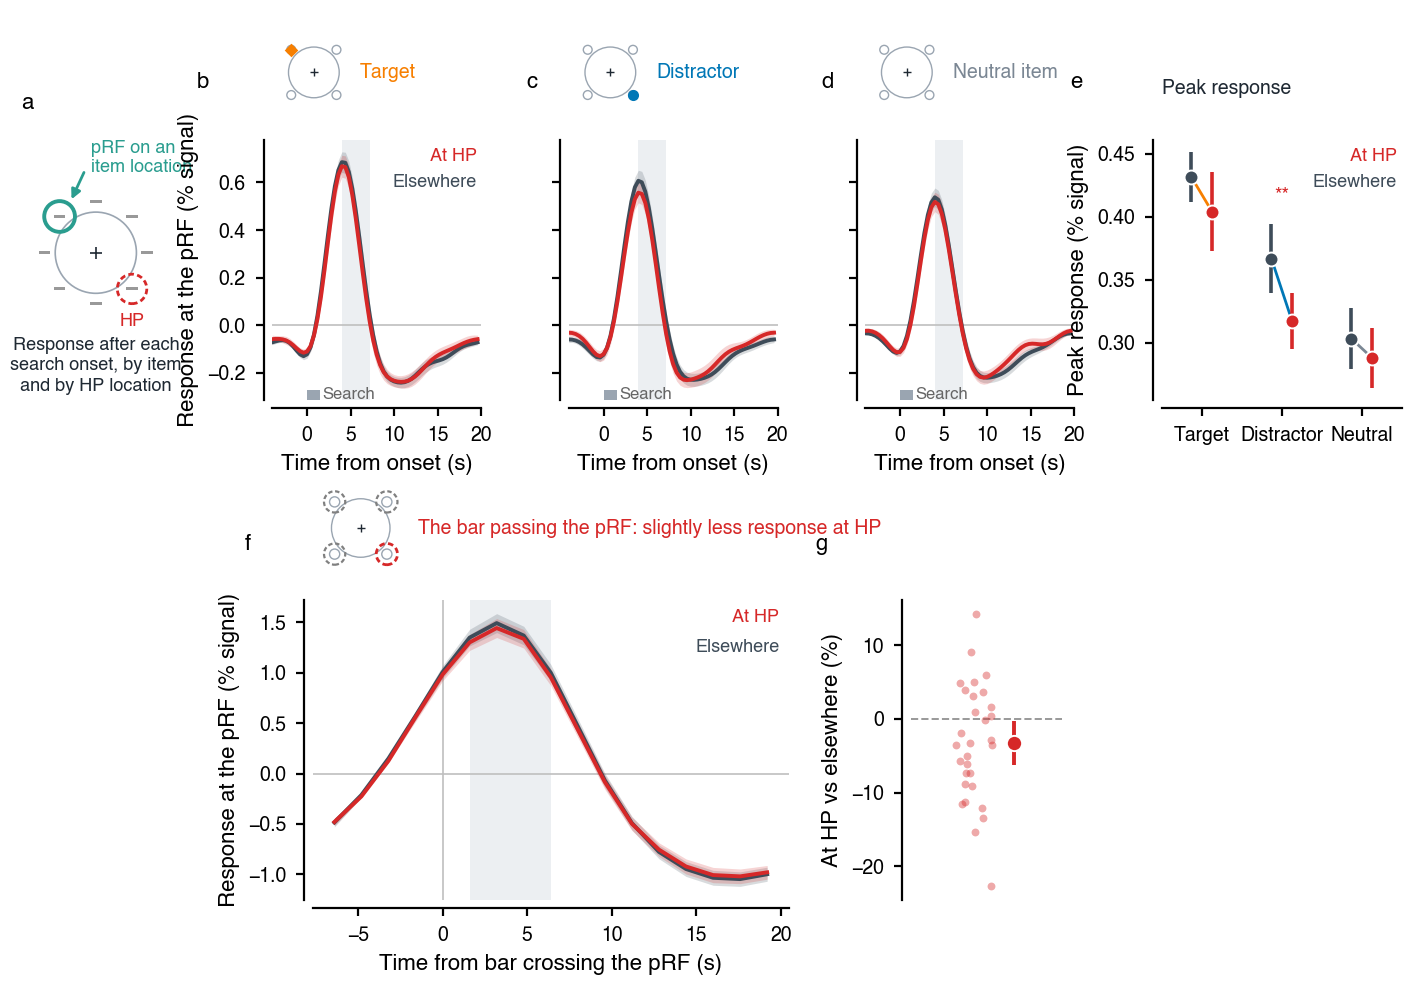
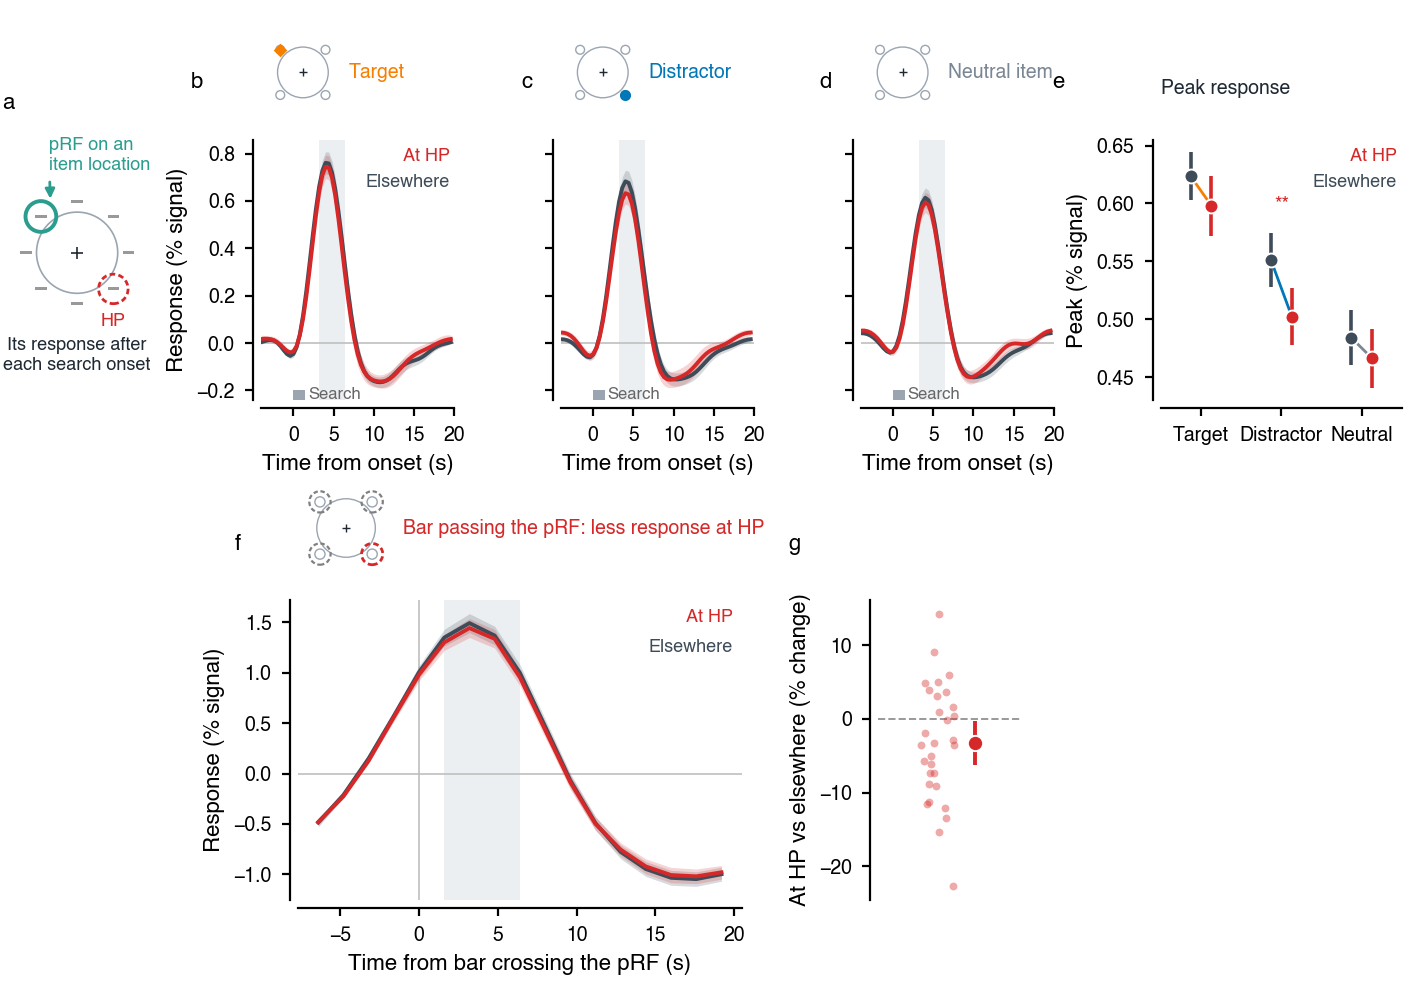
Deconvolved event figure: layout, common baseline, peak window 3.2-6.4 s

diff --git a/retsupp/visualize/paper/fig_event_responses_2x3.py b/retsupp/visualize/paper/fig_event_responses_2x3.py
@@ -64,6 +64,8 @@ def load_deconv(folder):
     d['w'] = d.response * d.n_voxels
     g = d.groupby(['subject', 'cls', 't'])
     p = (g.w.sum() / g.n_voxels.sum()).rename('data').reset_index()
+    base = p[p.t < 0].groupby('subject').data.mean()
+    p['data'] -= p.subject.map(base)
     p[['item', 'loc']] = p.cls.str.rsplit('_', n=1, expand=True)
     return p
 
@@ -77,11 +79,11 @@ def schematic(ax):
     ax.add_patch(Circle(ring[1], 1.2, fill=False, ec=PRF_TEAL, lw=1.4))
     ax.add_patch(Circle(ring[3], 1.15, fill=False, ec=HP, lw=1., ls=(0, (2, 1.2))))
     ax.plot(0, 0, '+', color=FG, ms=4, mew=.6)
-    ax.annotate('pRF on an\nitem location', xy=ring[1] + [.75, .95], xytext=(-.4, 7.4), fontsize=6.5, color=PRF_TEAL, ha='left',
+    ax.annotate('pRF on an\nitem location', xy=ring[1] + [.75, .95], xytext=(-2.2, 7.6), fontsize=6.5, color=PRF_TEAL, ha='left',
                 va='center', arrowprops=dict(arrowstyle='-|>', color=PRF_TEAL, lw=1., mutation_scale=7, shrinkA=1, shrinkB=2,
                                              relpos=(0, .5)))
     ax.text(ring[3, 0], ring[3, 1] - 1.9, 'HP', color=HP, fontsize=6.5, ha='center', va='top')
-    ax.text(0, -6.6, 'Response after each\nsearch onset, by item\nand by HP location',
+    ax.text(0, -6.6, 'Its response after\neach search onset',
             ha='center', va='top', fontsize=6.5, color=FG, linespacing=1.25)
     ax.set_xlim(-5.8, 5.8)
     ax.set_ylim(-11.5, 8.8)
@@ -132,7 +134,7 @@ def peaks(ax, d):
         st = '***' if p < .001 else '**' if p < .01 else '*' if p < .05 else ''
         ax.text(i, max(m) + max(e) + .015, st, ha='center', va='bottom', fontsize=7, color=HP)
     ax.set_xticks(range(len(ITEMS)))
-    ax.set_xticklabels(['Target', 'Distractor', 'Neutral'])
+    ax.set_xticklabels(['Target', 'Distractor', 'Neutral'], fontsize=6.5)
     for t, (_, _, col, _) in zip(ax.get_xticklabels(), ITEMS):
         t.set_color(col)
     ax.set_xlim(-.5, len(ITEMS) - .5)
@@ -170,7 +172,7 @@ def bar_panels(ax, ax2, p):
     ax.text(.98, .97, 'At HP', transform=ax.transAxes, color=HP, fontsize=6.5, ha='right', va='top')
     ax.text(.98, .87, 'Elsewhere', transform=ax.transAxes, color=LP_GREY, fontsize=6.5, ha='right', va='top')
     ax.set_xlabel('Time from bar crossing the pRF (s)')
-    ax.set_ylabel('Response at the pRF (% signal)')
+    ax.set_ylabel('Response (% signal)')
     offset_spines(ax)
     pk = p[p.t.between(*BAR_PEAK)].groupby(['subject', 'cls']).data.mean().unstack()
     rel = 100 * (pk.hp - pk.lp) / pk.lp
@@ -181,7 +183,7 @@ def bar_panels(ax, ax2, p):
     ax2.axhline(0, color='.6', lw=.7, ls='--', zorder=0)
     ax2.set_xlim(-.5, .7)
     ax2.set_xticks([])
-    ax2.set_ylabel('At HP vs elsewhere (%)')
+    ax2.set_ylabel('At HP vs elsewhere (% change)')
     offset_spines(ax2)
     ax2.spines['bottom'].set_visible(False)
     w = stats.wilcoxon(rel)
@@ -192,9 +194,11 @@ def main(folder, name='fig_event_responses_2x3', bar_folder='notes/data/bar_pass
     d = load_deconv(deconv) if deconv else load(folder)
     if deconv:
         name = f'{name}_deconv'
+        global PEAK
+        PEAK = (3.2, 6.4)
     n = d.subject.nunique()
     fig = plt.figure(figsize=(DOUBLE, 5.0))
-    gs = fig.add_gridspec(1, 5, width_ratios=[.85, 1, 1, 1, 1.15], left=.005, right=.99, top=.86, bottom=.6, wspace=.42)
+    gs = fig.add_gridspec(1, 5, width_ratios=[.8, 1, 1, 1, 1.25], left=.0, right=.99, top=.86, bottom=.6, wspace=.55)
     ax = fig.add_subplot(gs[0])
     schematic(ax)
     letter(ax, 'a', x=.08, y=1.1)
@@ -206,7 +210,7 @@ def main(folder, name='fig_event_responses_2x3', bar_folder='notes/data/bar_pass
         letter(ax, 'bcd'[j], x=-.3 if j == 0 else -.15, y=1.18)
         ax.set_xlabel('Time from onset (s)')
         if j == 0:
-            ax.set_ylabel('Response at the pRF (% signal)')
+            ax.set_ylabel('Response (% signal)')
             ax.text(.98, .97, 'At HP', transform=ax.transAxes, color=HP, fontsize=6.5, ha='right', va='top')
             ax.text(.98, .87, 'Elsewhere', transform=ax.transAxes, color=LP_GREY, fontsize=6.5, ha='right', va='top')
         else:
@@ -217,14 +221,15 @@ def main(folder, name='fig_event_responses_2x3', bar_folder='notes/data/bar_pass
     ax = fig.add_subplot(gs[4])
     tests = peaks(ax, d)
     ax.text(0, 1.2, 'Peak response', transform=ax.transAxes, fontsize=7, color=FG, va='center')
-    letter(ax, 'e', x=-.33, y=1.18)
+    ax.set_ylabel('Peak (% signal)')
+    letter(ax, 'e', x=-.4, y=1.18)
     bar = ''
     if Path(bar_folder).exists():
-        g2 = fig.add_gridspec(1, 3, width_ratios=[.85, 2.2, .7], left=.005, right=.75, top=.4, bottom=.1, wspace=.45)
+        g2 = fig.add_gridspec(1, 3, width_ratios=[.8, 2.2, .7], left=.0, right=.72, top=.4, bottom=.1, wspace=.55)
         ax = fig.add_subplot(g2[1])
         ax2 = fig.add_subplot(g2[2])
         rel, pv = bar_panels(ax, ax2, load_bar(bar_folder))
-        title_icon(ax, 'The bar passing the pRF: slightly less response at HP', ('hp', 'lp'), HP, y=1.08, h=.32)
+        title_icon(ax, 'Bar passing the pRF: less response at HP', ('hp', 'lp'), HP, y=1.08, h=.32)
         letter(ax, 'f', x=-.13, y=1.15)
         letter(ax2, 'g', x=-.55, y=1.15)
         bar = (f' f, Response locked to the moment the bar centre crosses the pRF centre (along the direction of the bar motion), for the '

diff --git a/notes/figures/paper_2026-11/fig_event_responses_2x3_deconv.md b/notes/figures/paper_2026-11/fig_event_responses_2x3_deconv.md
@@ -6,6 +6,6 @@ fit-quality criterion, no gain-field model). a, What is measured. b-d, Response 
 jittered against the 1.6 s TR, binned at 0.4 s; averaged over trials and voxels per subject, ROIs pooled weighted by
 voxel count; one baseline per subject for all classes (−4 to 0 s). Lines and bands: mean ± SEM across subjects (n = 30);
 grey strip, the search display (1.5 s); grey column, the window used in e. Trials follow each other every few seconds, so
-epochs also contain neighbouring trials. e, Mean response in the window 4.0-7.2 s: points and bars, mean and
+epochs also contain neighbouring trials. e, Mean response in the window 3.2-6.4 s: points and bars, mean and
 95% within-subject CI (Cousineau-Morey); lines join the HP and LP values of each item. Wilcoxon signed-rank tests HP vs
-LP per item: target -0.028% (HP − LP; 63% of subjects lower at HP), p = 0.1; distractor -0.050% (HP − LP; 77% of subjects lower at HP), p = 0.0058; neutral item -0.015% (HP − LP; 60% of subjects lower at HP), p = 0.084. f, Response locked to the moment the bar centre crosses the pRF centre (along the direction of the bar motion), for the same voxels, when their location is the HP location (red) or an LP location (dark); search items not removed; baseline −6.4 to 0 s. g, Response at HP relative to elsewhere in 1.6-6.4 s, per subject (dots), mean and 95% CI: -3.3%, 63% of subjects below 0, Wilcoxon p = 0.045.
+LP per item: target -0.026% (HP − LP; 57% of subjects lower at HP), p = 0.12; distractor -0.049% (HP − LP; 77% of subjects lower at HP), p = 0.0032; neutral item -0.018% (HP − LP; 70% of subjects lower at HP), p = 0.092. f, Response locked to the moment the bar centre crosses the pRF centre (along the direction of the bar motion), for the same voxels, when their location is the HP location (red) or an LP location (dark); search items not removed; baseline −6.4 to 0 s. g, Response at HP relative to elsewhere in 1.6-6.4 s, per subject (dots), mean and 95% CI: -3.3%, 63% of subjects below 0, Wilcoxon p = 0.045.
